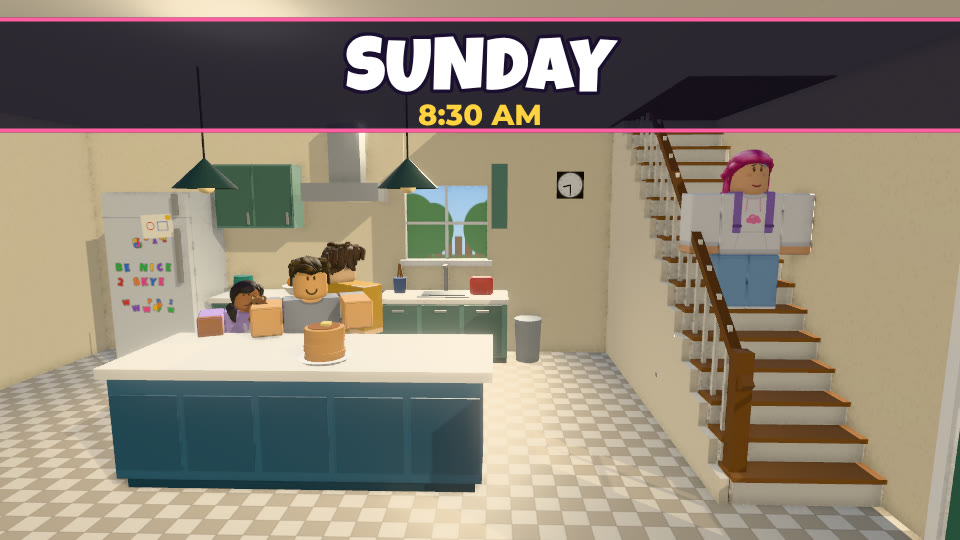
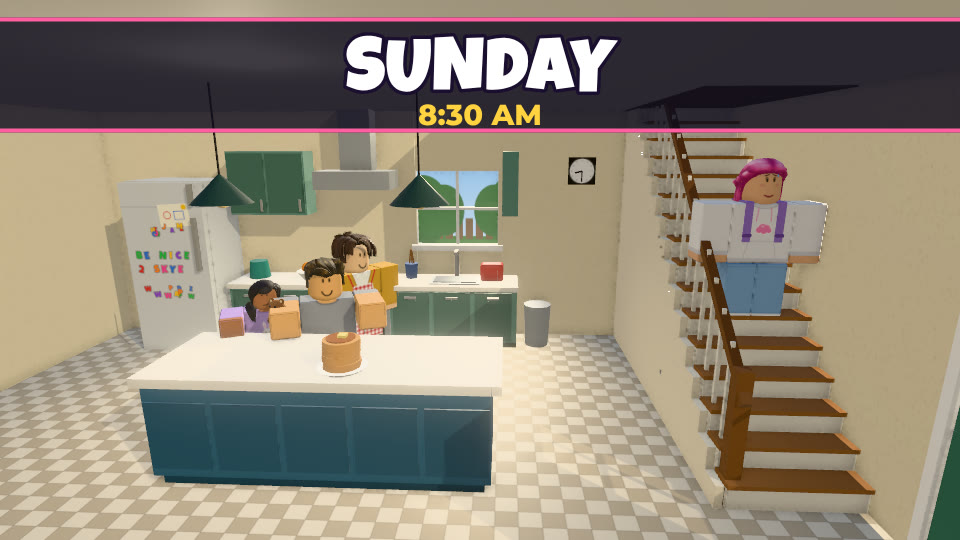
ch11: gate fixes 1-12 (Dad clear and flipping with the pan, end-screen block in the clear space, SAY YES in the wide, phone at the ear, Max/Dad/Lily/Skye reframes)

diff --git a/roblox-shorts-studio/projects/i-secretly-lived-in-my-enemys-house/web/ch11.js b/roblox-shorts-studio/projects/i-secretly-lived-in-my-enemys-house/web/ch11.js
@@ -74,31 +74,33 @@ export async function setup(stage) {
   K.dress(C.skye, ['skye_hoodie', 'backpack']); K.dress(C.max, 'max_pjs'); K.dress(C.lily, 'lily_pjs'); K.dress(C.dad, 'dad_apron');
   A = await K.loadAnims(['idle', 'walk', 'sit', 'laugh']);
   const add = (k, id, o) => { P[k] = K.makeProp(id, o); stage.scene.add(P[k]); return P[k]; };
-  add('spatula', 'spatula'); add('phone', 'phone'); add('plate', 'plate', { with: 'sandwich' }); add('pancake', 'pancake');
+  add('spatula', 'spatula'); add('pan', 'pan', { pancake: true }); add('phone', 'phone'); add('plate', 'plate', { with: 'sandwich' }); add('pancake', 'pancake');
   try { add('bag', 'backpack'); } catch { P.bag = null; }     // floor backpack: requested from kit-props
 }
 export const cast = () => ({ skye: C.skye, max: C.max, dad: C.dad, lily: C.lily });
 
 // ---------- the shot table (one scene; every camera on the open +z side of the room) ----------
 const KO = K.SET_ORIGIN.kitchen;
+// the closing wide / end screen: the four in a compact block at frame centre, SAY YES in the left third, Dad clear between Max and Skye
+const WIDE_POS = [6, 10.6, 14], WIDE_TGT = [-2.1, 3.7, -4.6], WIDE_FOV = 38;
 // fixed set-ups (kitchen-local), all on the open +z side; walls auto-hide, so no wall pull-in
 const fixed = (pos, target, fov) => (s) => K.setCam(s, { pos: KO.clone().add(V(...pos)), target: KO.clone().add(V(...target)), fov }, { clear: false });
 const dadCU = (s) => K.camOn(s, C.dad, 'mcu', { angle: 0.45 });
 const skyeMCU = (s) => K.camOn(s, C.skye, 'mcu', { angle: 0.3 });
-const lilyCU = fixed([-6.2, 4.9, 1.8], [-3.6, 4.1, -3.2], 32);
+const lilyCU = fixed([-5.4, 4.6, 4.2], [-4.0, 4.1, -3.2], 26);
 const seatedTwo = fixed([-0.2, 5.4, 5.0], [0.0, 4.4, -3.2], 30);
-const skyeSeatCU = (s) => K.camOn(s, C.skye, 'mcu', { angle: 0.7 });
+const skyeSeatCU = fixed([6.6, 7.6, 0.9], [-0.2, 5.3, -3.8], 36);      // from front-right: SAY YES on the fridge behind her
 const SHOTS = [
-  { line: LN.vo, off: 0, id: 'stairs_wide', cam: fixed([5.5, 8.2, 15], [5, 5.6, -4], 56) },
+  { line: LN.vo, off: 0, id: 'stairs_wide', cam: fixed([5.5, 10.2, 15], [4.6, 5.6, -4], 56) },
   { line: LN.morning, off: -0.1, id: 'stove_ms', cam: (s) => K.camOn(s, C.dad, 'ms', { angle: 0.9 }) },
   { line: LN.pumpkin, off: -0.05, id: 'dad_cu', cam: dadCU },
-  { line: LN.ghost, off: -0.05, id: 'island_two', cam: fixed([6, 6.2, 13], [8.5, 4.3, -1], 50) },
+  { line: LN.ghost, off: -0.05, id: 'max_mcu', cam: (s) => K.camOn(s, C.max, 'mcu', { angle: -0.4 }) },
   { line: LN.thief, off: -0.05, id: 'dad_cu', cam: dadCU },
   { line: LN.sorry, off: -0.1, id: 'skye_ms', cam: (s) => K.camOn(s, C.skye, 'ms', { angle: 0.3 }) },
   { line: LN.knew, off: -0.05, id: 'lily_cu', cam: lilyCU },
   { line: LN.youKnew, off: -0.05, id: 'dad_cu', cam: dadCU },
   { line: LN.horse, off: -0.05, id: 'lily_cu', cam: lilyCU },
-  { line: LN.mother, off: -0.05, id: 'dad_skye_two', cam: fixed([8.5, 6.4, 7.5], [1.5, 4.6, -5], 46) },
+  { line: LN.mother, off: -0.05, id: 'dad_cu', cam: dadCU },
   { line: LN.sleepover, off: -0.05, id: 'skye_mcu', cam: skyeMCU },
   { line: LN.week, off: -0.05, id: 'dad_cu', cam: dadCU },
   { line: LN.long, off: -0.05, id: 'skye_mcu', cam: skyeMCU },
@@ -111,8 +113,8 @@ const SHOTS = [
   { line: LN.cond, off: -0.05, id: 'skye_cu', cam: skyeSeatCU },
   { line: LN.crusts, off: -0.05, id: 'max_cu', cam: (s) => K.camOn(s, C.max, 'mcu', { angle: -0.6 }) },
   { line: LN.crusts2, off: -0.05, id: 'island_two_seated', cam: seatedTwo },
-  { line: LN.pancakes, off: -0.1, id: 'stove_ms', cam: fixed([5.5, 6.0, -4.5], [-2, 4.9, -9], 38) },
-  { t: T_WIDE, id: 'island_wide', cam: fixed([-4, 8.5, 11], [-0.5, 4.5, -5], 40) },
+  { line: LN.pancakes, off: -0.1, id: 'stove_ms', cam: fixed([4.2, 5.9, -5.6], [-1.6, 4.8, -8.4], 42) },
+  { t: T_WIDE, id: 'island_wide', cam: fixed(WIDE_POS, WIDE_TGT, WIDE_FOV) },
 ].map((x) => ({ ...x, start: x.t ?? at(x.line, x.off) })).sort((a, b) => a.start - b.start);
 const shotAt = (t) => { let s = SHOTS[0]; for (const x of SHOTS) if (t >= x.start) s = x; return s; };
 
@@ -123,6 +125,8 @@ const lerpH = (a, b, u) => a + Math.atan2(Math.sin(b - a), Math.cos(b - a)) * u;
 // one-arm kit gesture held from t0 to t1, eased in and out over 0.25 s
 const gest = (actor, name, side, t0, t1, t) => { const k = sm(inv(t0, t0 + 0.25, t)) * (1 - sm(inv(t1 - 0.25, t1, t))); if (k > 0) K.gesture(actor, name, side, k); };
 const STRIDE = 14.5;
+const PHONE_OFF = [-0.7, -0.3, 0];     // phone in the fist against her ear (hold() offset, phone frame)
+const PAN = (t) => t >= at(LN.pancakes) - 0.3;
 const FLIPS = () => [at(LN.pancakes) + 0.3, T_WIDE + 0.7, T_WIDE + 4.7, T_END + 2.5, T_END + 7.5];
 // Walk down the stairs in legs [from, to, arriveAt]: straight along the flight (feet on the slope), legs driven by the
 // horizontal distance, stopping between legs (a nervous pause on the steps).
@@ -169,7 +173,6 @@ export function update(t, stage) {
       const m = K.walk(C.skye, A, bottom, endM, tLeave, t, { idleAt: idle });
       if (m.done) {
         K.playAnim(C.skye, [[A.idle, idle]]);
-        gest(C.skye, 'hand_on_neck', 'L', end(LN.sorry) - 2.6, end(LN.sorry) + 0.3, t);
         const sh2 = sm(inv(at(LN.sleepover) + 0.2, at(LN.sleepover) + 0.45, t)) * (1 - sm(inv(end(LN.sleepover), end(LN.sleepover) + 0.3, t)));
         if (sh2 > 0) K.posture(C.skye, 'shrug', { mix: sh2, reset: false });
         gest(C.skye, 'phone_ear', 'R', at(LN.mom) - 0.4, T_LATER + 0.2, t);
@@ -180,9 +183,10 @@ export function update(t, stage) {
     K.dress(C.skye, ['skye_hoodie', 'backpack']);
   } else {
     K.playAnim(C.skye, [[A.sit, 0]]);
-    gest(C.skye, 'point', 'L', at(LN.fridgeAsk) + 0.7, end(LN.fridgeAsk) + 0.2, t);
-    gest(C.skye, 'finger_up', 'R', at(LN.cond) + 0.4, end(LN.cond) + 0.3, t);
-    K.putOn(C.skye, s3, { sit: true, heading: -0.5 });
+    // on her two lines she turns to the front-right camera: a thumb back over her right shoulder at the fridge, then a finger up (left arm, clear of Max)
+    const turn = sm(inv(at(LN.fridgeAsk) - 0.2, at(LN.fridgeAsk) + 0.2, t)) * (1 - sm(inv(end(LN.cond) + 0.1, end(LN.cond) + 0.5, t)));
+    K.putOn(C.skye, s3, { sit: true, heading: lerpH(-0.5, 0.45, turn) });
+    gest(C.skye, 'finger_up', 'L', at(LN.cond) + 0.4, end(LN.cond) + 0.3, t);
     K.dress(C.skye, 'skye_hoodie');
   }
   K.dress(C.max, 'max_pjs'); K.dress(C.lily, 'lily_pjs'); K.dress(C.dad, 'dad_apron');
@@ -214,15 +218,16 @@ export function update(t, stage) {
     K.playAnim(C.dad, [[A.idle, idle]]);
     const toRoom = sm(inv(at(LN.morning) - 0.3, at(LN.morning) + 0.3, t)) * (1 - sm(inv(at(LN.pancakes) - 0.4, at(LN.pancakes) + 0.1, t)));
     const tgt = t < at(LN.morning) + 1.3 ? s2.pos : seated ? s3.pos : t < at(LN.sorry) + 1 ? bottom.pos : endM.pos;
-    const back = t >= T_WIDE ? 0.55 : 0;                // in the wide, half turned to the kids while he flips
-    const h = lerpH(sv.heading, lerpH(K.faceTo(sv, tgt), CHEAT, 0.3), Math.max(toRoom, back));
-    const hh = t >= at(LN.pancakes) - 0.1 && t < T_WIDE ? 0.5 : h;
-    K.putOn(C.dad, sv, { heading: hh });
+    let h = lerpH(sv.heading, lerpH(K.faceTo(sv, tgt), CHEAT, 0.3), toRoom);
+    if (t < at(LN.morning) - 0.3) h = 0.9;               // frame 0: cooking side-on, 3/4 to the opening wide
+    if (PAN(t)) h = 0.9;                                  // flipping with the pan held out, 3/4 to the stove shot and the wide
+    K.putOn(C.dad, sv, { heading: h });
     gest(C.dad, 'point', 'R', at(LN.thief), end(LN.thief) + 0.3, t);
     gest(C.dad, 'hand_on_hip', 'L', at(LN.mother) + 0.1, end(LN.week) + 0.2, t);
     gest(C.dad, 'point', 'R', at(LN.phone), end(LN.phone) + 0.1, t);
-    gest(C.dad, 'hand_on_hip', 'L', at(LN.pancakes) + 1.0, T_WIDE + 3.5, t);            // laughing, proud of his pancakes
-    for (const f of FLIPS()) gest(C.dad, 'tap', 'R', f - 0.35, f + 0.5, t);    // the spatula flick for each flip
+    // from "Pancakes for everyone!" on: the pan out in his right hand, the spatula in his left, a flick up for each flip
+    if (PAN(t)) { K.gesture(C.dad, 'hold_out', 'R', 1); K.gesture(C.dad, 'hold_out', 'L', 0.55); }
+    for (const f of FLIPS()) gest(C.dad, 'tap', 'L', f - 0.3, f + 0.35, t);
   }
 
   // --- faces ---
@@ -239,9 +244,10 @@ export function update(t, stage) {
   K.speak(C.dad, dadF, t, L.said('DAD'));
 
   // --- props ---
-  K.hold(P.spatula, C.dad, 'R');
+  K.hold(P.spatula, C.dad, PAN(t) ? 'L' : 'R');
+  P.pan.visible = PAN(t); if (PAN(t)) K.hold(P.pan, C.dad, 'R', 'palm');
   const phoneOut = t >= at(LN.mom) - 0.4 && t < T_LATER;
-  if (phoneOut) { P.phone.visible = true; K.hold(P.phone, C.skye, 'R', 'palm'); }
+  if (phoneOut) { P.phone.visible = true; K.hold(P.phone, C.skye, 'R', 'palm', { offset: PHONE_OFF }); }
   else if (seated) { if (P.phone.parent !== stage.scene) stage.scene.add(P.phone); const p = M.phoneDown(); P.phone.visible = true; P.phone.scale.setScalar(1); P.phone.position.copy(p.pos).add(V(0, 0.06, 0)); P.phone.rotation.set(-Math.PI / 2, p.heading, 0, 'YXZ'); }   // lying flat, screen up
   else P.phone.visible = false;
   // the crustless sandwich: in front of Max after "Later"; he slides it to Skye in the wide (it follows his palm)
@@ -252,11 +258,13 @@ export function update(t, stage) {
     if (u > 0 && u < 1) { const h = palmR(C.max); pp.set(h.x, a.y, h.z); }
     K.place(P.plate, pp, 0);
   }
-  // pancake flips from the pan: on "Pancakes for everyone!" and slowly through the wide / end screen
+  // pancake flips out of the held pan: on "Pancakes for everyone!" and slowly through the wide / end screen
   {
-    let y = 0, r = 0;
-    for (const f of FLIPS()) { const u = inv(f, f + 0.9, t); if (u > 0 && u < 1) { y = 2.4 * 4 * u * (1 - u); r = u * Math.PI * 2; } }
-    K.place(P.pancake, M.pan().pos.clone().add(V(0, y, 0))); P.pancake.rotation.x = r;
+    const cake = P.pan.userData.pancake; cake.visible = true;
+    let y = 0.04, r = 0;
+    for (const f of FLIPS()) { const u = inv(f, f + 0.9, t); if (u > 0 && u < 1) { y = 0.04 + 2.2 * 4 * u * (1 - u); r = u * Math.PI * 2; } }
+    cake.position.y = y; cake.rotation.x = r;
+    P.pancake.visible = false;
   }
   if (P.bag) { P.bag.visible = seated; if (seated) { const b = M.bagFloor(); K.place(P.bag, b.pos, b.heading); } }
 

diff --git a/roblox-shorts-studio/projects/i-secretly-lived-in-my-enemys-house/web/ch11_hold.js b/roblox-shorts-studio/projects/i-secretly-lived-in-my-enemys-house/web/ch11_hold.js
@@ -6,7 +6,7 @@ const K = base.KEY;
 export const { meta, sky, setup, update, overlay } = holdCheck(base, [
   [K.morning, 'dad', 'R', 'spatula'], [K.thief, 'dad', 'R', 'spatula (pointing)'], [K.phone, 'dad', 'R', 'spatula (pointing)'],
   [K.flip, 'dad', 'R', 'spatula (flip)'], [K.end, 'dad', 'R', 'spatula (end screen)'],
-  [K.mom, 'skye', 'R', 'phone at ear'],
+  [K.mom, 'skye', 'R', 'phone at ear', { dist: 3.2, side: 1.5, up: 0.4 }],
   [K.knew, 'lily', 'R', 'teddy on the island', { up: 3.0, dist: 4.5 }], [K.says, 'lily', 'R', 'teddy on the island (pointing)', { up: 3.0, dist: 4.5 }], [K.wide, 'lily', 'R', 'teddy on the island (wide)', { up: 3.0, dist: 4.5 }],
   [K.wide, 'max', 'R', 'plate slide', { up: 3.0, dist: 5 }],
 ]);
